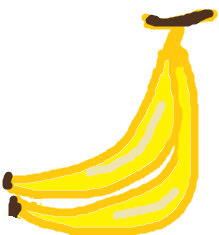
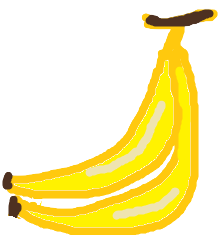
game is working

diff --git a/script.js b/script.js
@@ -23,29 +23,26 @@ heartImg.src = 'heart.png';
 
 const pen = {
     x: canvas.width / 2 - 25,
-    y: canvas.height - 120,
-    width: 50,
-    height: 110,
+    y: canvas.height - 140,
+    width: 40,
+    height: 140,
     speed: 13,
     isThrown: false
 };
 
-let fruits = [];
+let fruit = {
+    x: canvas.width / 2 - 40,
+    y: 100,
+    width: 140,
+    height: 80,
+    speed: 4,
+    imgIndex: 0
+};
 
 function spawnFruits() {
-    fruits = [];
-    let spacing = canvas.width / 6;
-
-    for (let i = 0; i < 5; i++) {
-        fruits.push({
-            x: spacing * (i + 1) - 40,
-            y: 80 + (i % 2 * 35),
-            width: 75,
-            height: 75,
-            speed: (i % 2 === 0 ? 3.5 : -3.5),
-            imgIndex: i
-        });
-    }
+    fruit.x = Math.random() * (canvas.width - 200) + 100;
+    fruit.speed = (Math.random() > 0.5 ? 4 : -4);
+    fruit.imgIndex = Math.floor(Math.random() * fruitImages.length);
 }
 
 window.addEventListener("keydown", (e) => {
@@ -74,50 +71,37 @@ function resetGame() {
     lives = 3;
     gameState = "playing";
     pen.isThrown = false;
-    pen.y = canvas.height - 120;
+    pen.y = canvas.height - 140;
     spawnFruits();
 }
 
 function update() {
     if (gameState !== "playing") return;
 
-    fruits.forEach(f => {
-        f.x += f.speed;
-        if (f.x <= 20 || f.x + f.width >= canvas.width - 20) {
-            f.speed *= -1;
-        }
-    });
+    fruit.x += fruit.speed;
+    if (fruit.x <= 20 || fruit.x + fruit.width >= canvas.width - 20) {
+        fruit.speed *= -1;
+    }
 
     if (pen.isThrown) {
         pen.y -= pen.speed;
 
-        let hitIndex = -1;
-        for (let i = 0; i < fruits.length; i++) {
-            let f = fruits[i];
-            if (
-                pen.x < f.x + f.width &&
-                pen.x + pen.width > f.x &&
-                pen.y < f.y + f.height &&
-                pen.y + pen.height > f.y                
-            ) {
-                hitIndex = i;
-                break;
-            }
-        }
-
-        if (hitIndex !== -1) {
+        if (
+            pen.x < fruit.x + fruit.width &&
+            pen.x + pen.width > fruit.x &&
+            pen.y < fruit.y + fruit.height &&
+            pen.y + pen.height > fruit.y                
+        ) {
             score += 100;
             pen.isThrown = false;
-            pen.y = canvas.height - 120;
-            fruits[hitIndex].x = Math.random() * (canvas.width - 150) + 50;
-            fruits[hitIndex].speed = (Math.random() > 0.5 ? 4 : -4);
-            fruits[hitIndex].imgIndex = Math.floor(Math.random() * fruitImages.length);
+            pen.y = canvas.height - 140;
+            spawnFruits();
         }
 
         if (pen.y < -pen.height) {
             lives--;
             pen.isThrown = false;
-            pen.y = canvas.height - 120;
+            pen.y = canvas.height - 140;
 
             if (lives <= 0) {
                 gameState = "gameover";
@@ -137,14 +121,33 @@ function draw() {
     ctx.shadowBlur = 0;
 
     for (let i = 0; i < lives; i++) {
-        ctx.drawImage(heartImg, canvas.width - 180 + (i * 45), 30, 35, 35);
+        let heartX = canvas.width - 180 + (i * 45);
+        if (heartImg.complete && heartImg.naturalWidth !== 0) {
+            ctx.drawImage(heartImg, heartX, 30, 35, 35);
+        } else {
+            ctx.fillStyle = "#ef4444";
+            ctx.beginPath();
+            ctx.arc(heartX + 15, 45, 15, 0, Math.PI * 2);
+            ctx.fill();
+        }
     }
 
-    fruits.forEach(f => {
-        ctx.drawImage(fruitImages[f.imgIndex], f.x, f.y, f.width, f.height);
-    });
+    let img = fruitImages[fruit.imgIndex];
+    if (img && img.complete && img.naturalWidth !== 0) {
+        ctx.drawImage(img, fruit.x, fruit.y, fruit.width, fruit.height);
+    } else {
+        ctx.fillStyle = "#f97316";
+        ctx.beginPath();
+        ctx.arc(fruit.x + fruit.width / 2, fruit.y + fruit.height / 2, fruit.width / 2, 0, Math.PI * 2);
+        ctx.fill();
+    }
 
-    ctx.drawImage(penImg, pen.x, pen.y, pen.width, pen.height);
+    if (penImg.complete && penImg.naturalWidth !== 0) {
+        ctx.drawImage(penImg, pen.x, pen.y, pen.width, pen.height);
+    } else {
+        ctx.fillStyle = "#38bdf8";
+        ctx.fillRect(pen.x, pen.y, pen.width, pen.height);
+    }
 
     if (gameState === "gameover") {
         ctx.fillStyle = "rgba(15, 23, 42, 0.85)";
@@ -164,7 +167,6 @@ function draw() {
         ctx.textAlign = "left";
     }
 }
-
 
 spawnFruits();
 
